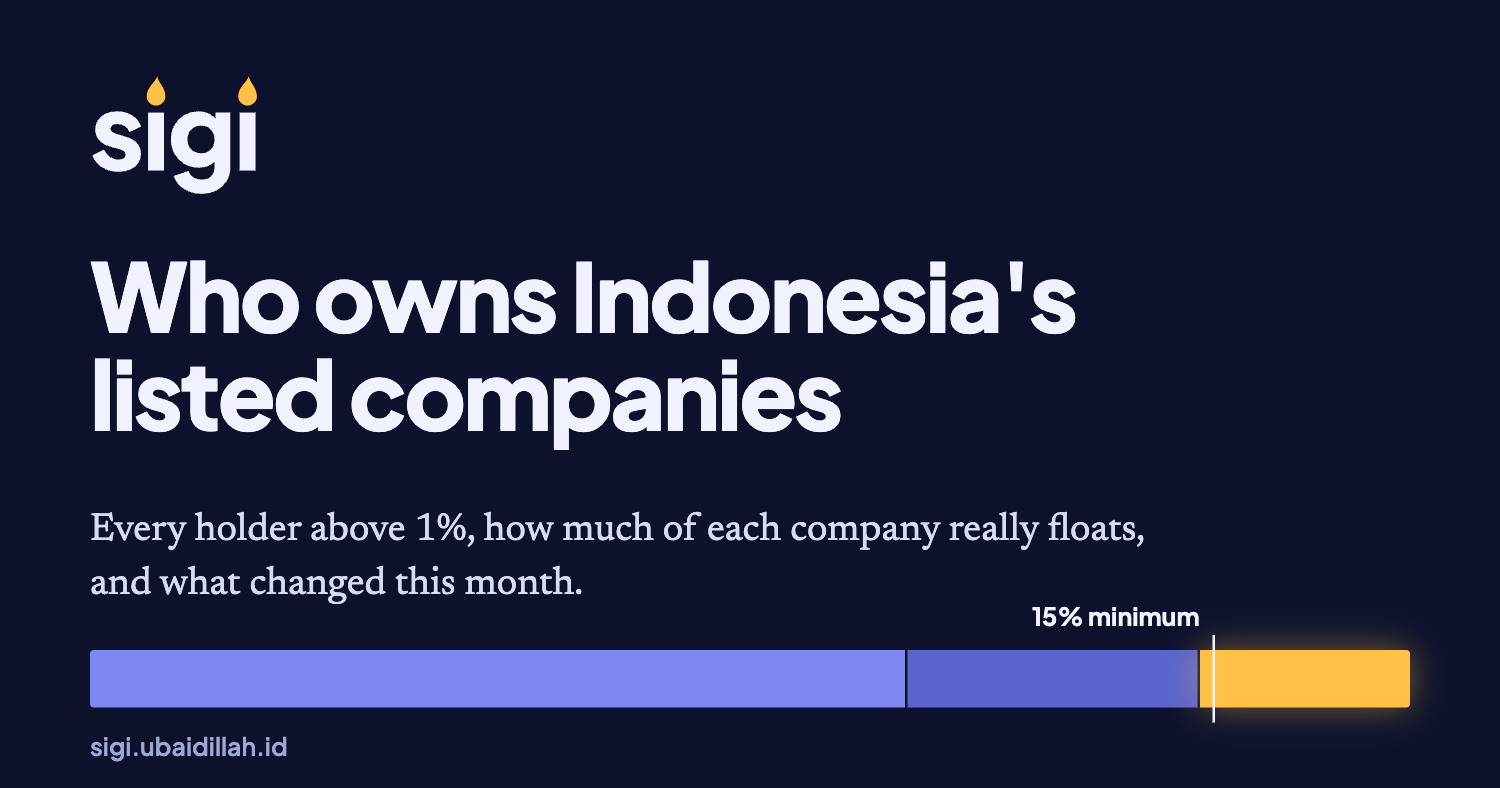
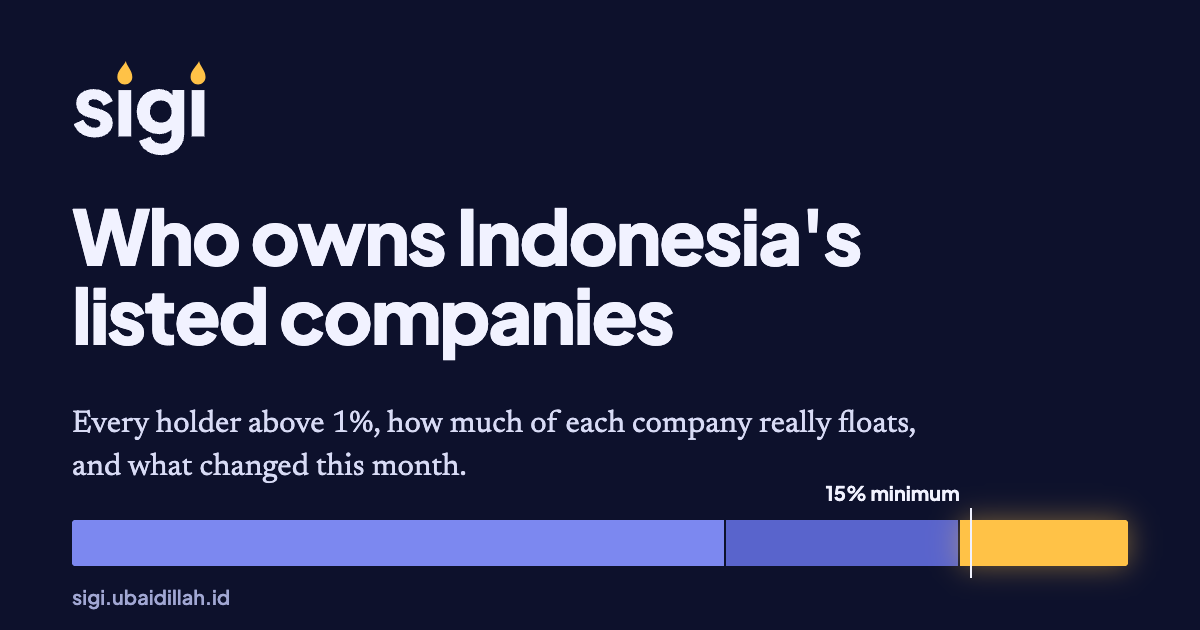
Redesign: identity and one design system under every page (D-027)

diff --git a/e2e/pages.spec.ts b/e2e/pages.spec.ts
@@ -63,7 +63,14 @@ const PAGES: Expected[] = [
   {
     path: "/brief",
     h1: "Daily brief",
-    h2: ["Notable", "Inputs"],
+    h2: [
+      "Worth a closer look",
+      "Changes since yesterday",
+      "Risks to this reading",
+      "Set aside, and why",
+      "Web sources",
+      "Inputs",
+    ],
     current: "Brief",
   },
   {
@@ -78,7 +85,12 @@ const PAGES: Expected[] = [
     ],
     current: "Investability",
   },
-  { path: "/holders", h1: "Holders", h2: [], current: "Holders" },
+  {
+    path: "/holders",
+    h1: "Holders",
+    h2: ["Institutional holders"],
+    current: "Holders",
+  },
   {
     path: `/holders/${HOLDERS.fund.slug}`,
     h1: HOLDERS.fund.name,
@@ -101,19 +113,26 @@ const PAGES: Expected[] = [
   {
     path: "/theses",
     h1: "Theses",
-    h2: ["Conditions hit", "All theses"],
+    h2: ["Conditions hit", "Views held"],
     current: "Theses",
   },
   {
     path: `/theses/${THESES.valid.slug}`,
     h1: THESES.valid.title,
-    h2: ["Summary", "Invalidation conditions", "Thesis", "History"],
+    h2: [
+      "Where it stands",
+      "Invalidation conditions",
+      "Dates",
+      "The thesis",
+      "Version history",
+    ],
     current: "Theses",
   },
   {
     path: `/theses/${THESES.unreadable.slug}`,
     h1: THESES.unreadable.title,
-    h2: ["Summary", "Invalidation conditions", "Thesis", "History"],
+    // Conditions that cannot be read have no readings to summarise.
+    h2: ["Invalidation conditions", "Dates", "The thesis", "Version history"],
     current: "Theses",
   },
   {
@@ -140,7 +159,6 @@ for (const expected of PAGES) {
       expected.h1,
     );
     const sections = await headings(page, 2);
-    // The brief's section heading carries the date; only its badge is stable.
     for (const wanted of expected.h2) {
       expect(sections.some((text) => text.endsWith(wanted))).toBe(true);
     }

diff --git a/e2e/fixture.ts b/e2e/fixture.ts
@@ -58,10 +58,14 @@ export const test = base.extend<Options>({
     );
     page.on("requestfailed", (request) => {
       const reason = request.failure()?.errorText;
-      // Leaving a page cancels the prefetches it started; that is not a failure.
-      const cancelledPrefetch =
-        reason === "net::ERR_ABORTED" && request.url().includes("_rsc=");
-      if (ownOrigin(request.url()) && !cancelledPrefetch)
+      // Leaving a page cancels the prefetches it started, and any stylesheet it
+      // had not finished loading; that is not a failure. A stylesheet that is
+      // missing or broken is an error response, caught below.
+      const cancelled =
+        reason === "net::ERR_ABORTED" &&
+        (request.url().includes("_rsc=") ||
+          /\/_next\/static\/.+\.css(\?|$)/.test(request.url()));
+      if (ownOrigin(request.url()) && !cancelled)
         problems.push(`request failed: ${request.url()} ${reason}`);
     });
     page.on("response", (response) => {

diff --git a/docs/DECISIONS.md b/docs/DECISIONS.md
@@ -227,3 +227,17 @@ Merges also change who has a page. A holder whose spellings appear in the same m
 - **Launch:** the site is public when the `X-Robots-Tag: noindex, nofollow` line is removed from its nginx server block and nginx is reloaded. `robots.txt` (disallows `/lang`) and the sitemap (the section pages, every company in the latest register, every thesis) are already served. The line stays until the owner decides.
 **Consequences:** the Indonesian copy is the author's translation and has had no native-speaker review. A change to English text needs its Indonesian twin in the same commit, and the catalogs test says when it is missing.
 **Evidence:** Playwright (133 specs) and Lighthouse accessibility, 15 pages in both languages, both colour schemes, desktop and mobile: 120 runs, all 100, after darkening the muted and tone colours and underlining links in running text.
+
+## D-027. A new identity and one design system under every page (owner, 2026-10-26)
+**Context:** before launch the owner asked for the UI and UX to be reworked entirely, with an identity (logo, colour). The audit of the old pages, on production data at 1440 px: the market page was 34,683 px tall (all 969 companies in one table), investability 14,007, holders 18,188; every panel was the same white rounded card with a shadow; the face was the system font and the accent a stock blue; the same three-line citation sat under every panel; nothing on a page was larger than anything else.
+**Process (as for Sunrise D-161, `sunrise-ux`):** Anthropic's `frontend-design` skill and the `sunrise-ux` rules, with `ui-ux-pro-max` as a calibration only (its design-system search for this brief returned near-black OLED, a green accent and Fira, which is the default to avoid, so its checklist was kept and its choices were not). The brief is [DESIGN.md](DESIGN.md): subject and audience, the identity, tokens, parts, rules and quality floor. A token plan was reviewed against the common defaults before any code, then built, then critiqued from screenshots at 1440 and 390 px in both schemes and both languages. The foundation (tokens, shell, parts, the market and company pages) was built first; the other eight pages were rebuilt by three agents in separate git worktrees, each with its own build directory and ports, and merged.
+**Decision:**
+- **Identity.** Sigi is a torch (D-009), so the identity is what the torch lights: the part of a company that is open to the public. The wordmark is `sigi` in Plus Jakarta Sans ExtraBold, drawn as outlines, with a flame on each i; the symbol is a torch in white on a nila tile. Two colours: **nila**, the batik indigo, for ink, links and holders; **obor**, the torch amber, the only warm colour, which means *lit*: the free float, the flames, a warning. Plus Jakarta Sans (drawn in Jakarta by Gumpita Rahayu at Tokotype, with tabular figures) carries the interface and every figure; Newsreader sets long reading only. Both are OFL, subset to Latin and self-hosted (22 KB for the sans, 42 KB for the serif and 47 KB for its italic, which loads only where italic is used).
+- **The motif.** Who holds a company is one bar of 100%: holders of 5% or more, then the lit float, with a line at the 15% minimum. In a table row it is 10 px high and a column of them reads like a ruler; on a company page it is the focal figure and its float is lit once when the page opens, the site's only non-user-triggered motion.
+- **Layout language.** A ledger, not cards: flat sections that open on a strong rule with the source or date opposite the title; ruled tables; no shadows; wells only where a thing must stand apart. One focal element per page.
+- **System.** `app/styles/{tokens,base,shell,primitives}.css` and per-page files under `@layer sections`; `app/_components/ui.tsx` (`PageHeader`, `Section`, `Figures`, `Pill`, `Notice`, `SourceNote`, `Icon`) and `OwnershipBar.tsx`. No hex value outside `tokens.css`. Light and dark both follow the system; there is no toggle.
+- **Pages.** Market: search first, the count certainly below the line as the focal figure, today's brief headline, the register with a bar per company, 50 rows a page, filters folded. Company: the verdict, then the bar. Investability: the 25 lowest bounds and a link to the filtered register instead of all 219. Holders: 100 rows with a filter. Macro: tiles with a filled sparkline and the latest value marked; the 8-line citation per card became one folded source. Data: a freshness summary, then feeds, imports and sources as ledgers. Theses: what a thesis is, with a worked example marked as an example, so the empty page at launch explains itself; conditions as a table with a status word and icon. Brief: the headline set large as the focal element. A 404 page with a search, and a masthead search (`/search`) that takes an exact code to its company.
+- **Writing.** Dates are written for reading (`31 Mar 2027`) in the deadline lines; the sans has no italic, so emphasis is weight.
+**Rejected:** a candle-and-stack symbol (reads as a candlestick chart); cream paper with a serif display (a default); a dark-only theme (the owner keeps two); cards for every panel (the old UI); a TradingView-first home page (its widget is blank until a third party answers).
+**Consequences:** the worker's stored sentences still carry ISO dates and stay English (D-026); the Indonesian copy is still the author's translation without native review; the share image and favicon are static files; a change to the shared parts is made in `primitives.css` and `ui.tsx`, never per page. Per-run build directories (`SIGI_DIST_DIR`, `SIGI_E2E_PORT`) let end-to-end runs go in parallel.
+**Evidence:** page height at 1440 px, before and after: market 34,683 to 5,027; investability 14,007 to 4,758; holders 18,188 to 5,639; macro 3,443 to 3,328; company page (ALKA) 3,754 to 4,689, because of the larger type and the bar. No page scrolls sideways at 390 px. Lighthouse accessibility: 120 runs (15 pages, both languages, both schemes, desktop and phone), lowest 100. Contrast was computed for the whole palette in both schemes (text at least 5.5:1, controls at least 3:1). Playwright: 141 specs pass (the 133 of M6 repaired for the new markup, plus company search, the holders filter, the 15% line between bands and the data status); unit tests: 122 pass; `pnpm verify` passes.

diff --git a/docs/ARCHITECTURE.md b/docs/ARCHITECTURE.md
@@ -1,6 +1,6 @@
 # Architecture (proposed)
 
-**Status:** M1 (import pipeline, data health, ownership section, deployment) and M2 (investability tracker, holder explorer, market page) are built; production runs on Dokploy (D-020). Since 2026-10-24 a worker fetches the monthly holder files and the macro series and nothing is uploaded; the admin area is gone (D-021). M3 (macro dashboard) is built (D-023), and so are M4 (theses with conditions the worker checks daily, D-024), M5 (the daily brief, D-025) and M6 (ticker page, English and Indonesian, Playwright and Lighthouse, D-026). The one step left is the public launch, which is the owner's call. Sigi is a fresh repository; modules are copied from Sunrise using the manifest in §7 (D-011). Module paths refer to the Sunrise codebase (public at github.com/Azzamubaidillah/sunrise). Line counts come from a read-only audit on 2026-10-18.
+**Status:** M1 (import pipeline, data health, ownership section, deployment) and M2 (investability tracker, holder explorer, market page) are built; production runs on Dokploy (D-020). Since 2026-10-24 a worker fetches the monthly holder files and the macro series and nothing is uploaded; the admin area is gone (D-021). M3 (macro dashboard) is built (D-023), and so are M4 (theses with conditions the worker checks daily, D-024), M5 (the daily brief, D-025) and M6 (ticker page, English and Indonesian, Playwright and Lighthouse, D-026). Every page was then rebuilt on one design system and a new identity (D-027, docs/DESIGN.md). The one step left is the public launch, which is the owner's call. Sigi is a fresh repository; modules are copied from Sunrise using the manifest in §7 (D-011). Module paths refer to the Sunrise codebase (public at github.com/Azzamubaidillah/sunrise). Line counts come from a read-only audit on 2026-10-18.
 
 ## 1. Shape
 
@@ -109,7 +109,7 @@ That is tens of thousands of rows a year. **SQLite in WAL mode with Drizzle** (a
 
 | Route | Content |
 |---|---|
-| `/` | Market page: IHSG chart and IDX screener (TradingView widgets); the ownership screen with URL filters (built, M2) |
+| `/` | Market page: company search, the count certainly below 15%, today's brief headline, the register with an ownership bar per company, URL filters and 50 rows a page; the IHSG chart and IDX screener (TradingView widgets) below (built, M2; reworked D-027) |
 | `/investability` | Sigi's count against the exchange's, bands of the float bound, companies certainly below 15% with possible deadlines, timeline, methodology (built, M2) |
 | `/t/[code]` | Ticker page: free-float bound and rule status, holders, month-over-month changes, rule and index dates, theses naming the code, then apart and labelled "Data by TradingView" the chart, fundamentals, profile and top stories (built, M2 and M6) |
 | `/holders`, `/holders/[slug]` | Pages for corporate, fund and institution holders only (D-007, D-018; built, M2) |
@@ -119,7 +119,11 @@ That is tens of thousands of rows a year. **SQLite in WAL mode with Drizzle** (a
 | `/brief` | Today's brief, stale marker, rejected-file notice, inputs table (built, M5; F12) |
 | `/data` | Data health: the worker's checks, imports, gate results with warnings, sources and licences |
 | `/lang` | Sets the language cookie and redirects back (GET only; built, M6, D-026) |
-| `/robots.txt`, `/sitemap.xml` | Crawler rules and the page list (built, M6) |
+| `/search` | The masthead's company search: an exact share code goes to `/t/<code>`, anything else to the market page's name search (GET only; built, D-027) |
+| `/robots.txt`, `/sitemap.xml` | Crawler rules (off `/lang` and `/search`) and the page list (built, M6) |
+| `/icon.svg`, `/apple-icon.png`, `/opengraph-image.png` | The torch symbol and the share image, as Next file conventions in `app/` (built, D-027) |
+
+**Styles and parts (D-027).** `app/styles/{tokens,base,shell,primitives}.css` are the shared layers, loaded by `app/layout.tsx`; each page that needs its own rules has `app/styles/<page>.css` under `@layer sections`, imported by the page. The shared markup is `app/_components/ui.tsx` and `OwnershipBar.tsx`. Fonts (Plus Jakarta Sans, Newsreader; OFL) are subset to Latin and served from `app/fonts/`. docs/DESIGN.md is the brief.
 
 ## 6. Testing
 

diff --git a/README.md b/README.md
@@ -1,4 +1,9 @@
-# Sigi
+<h1>
+  <picture>
+    <source media="(prefers-color-scheme: dark)" srcset="docs/brand/wordmark-dark.svg">
+    <img src="docs/brand/wordmark-light.svg" alt="Sigi" height="56">
+  </picture>
+</h1>
 
 A research site for Indonesian listed companies. It covers who owns each company and what changed this month, how much of it really floats against the new 15% rule, how macro conditions move each sector, investment theses with explicit invalidation conditions, and a daily AI brief that cites its evidence. It uses only free data, and every figure shows its source.
 
@@ -12,10 +17,12 @@ A research site for Indonesian listed companies. It covers who owns each company
 - **M3** (deployed 2026-10-24): the macro dashboard (F6) at `/macro`, fed daily from Bank Indonesia, the World Bank Pink Sheet and FRED (D-023).
 - **M4** (deployed 2026-10-25): theses (F7) at `/theses`, files in `theses/` with typed invalidation conditions that the worker checks daily (D-024).
 - **M5** (deployed 2026-10-25): the daily brief (F12) at `/brief`: an agent reads Sigi's own readings each morning and writes one file that the page validates before showing (D-025).
-- **M6** (deployed 2026-10-25): the company page with its dates and TradingView sections (F8), English and Indonesian on every page (F11, D-026), Playwright and Lighthouse checks in CI. The site is public but asks search engines not to index it: the launch is removing the `X-Robots-Tag: noindex, nofollow` line from the site's nginx server block and reloading nginx.
+- **M6** (deployed 2026-10-25): the company page with its dates and TradingView sections (F8), English and Indonesian on every page (F11, D-026), Playwright and Lighthouse checks in CI.
+- **Redesign** (2026-10-26, D-027): a new identity (the `sigi` wordmark with a flame on each i, the torch, nila indigo and obor amber, Plus Jakarta Sans and Newsreader) and one design system under every page; the register carries an ownership bar per company, with the free float lit and the 15% minimum marked. The site is public but asks search engines not to index it: the launch is removing the `X-Robots-Tag: noindex, nofollow` line from the site's nginx server block and reloading nginx.
 
 | Doc | Purpose |
 |---|---|
+| [docs/DESIGN.md](docs/DESIGN.md) | The identity (wordmark, nila and obor, the lit ownership bar), tokens, shared parts and the rules for using them |
 | [docs/PRD.md](docs/PRD.md) | What we build, for whom, under which constraints; features with acceptance criteria; phases; risks |
 | [docs/DATA-SOURCES.md](docs/DATA-SOURCES.md) | Register of every data source: terms, quotes, status, attribution, known issues |
 | [docs/DECISIONS.md](docs/DECISIONS.md) | Decisions and their consequences |

diff --git a/docs/PRD.md b/docs/PRD.md
@@ -1,6 +1,6 @@
 # Sigi: Product Requirements
 
-**Version:** 0.9, 2026-10-25. **Status:** P1 started 2026-10-22; M1 to M6 built and deployed; the public launch (search engines allowed) waits for the owner, and §10's three theses are not yet written (§11, D-021, D-023 to D-026). **Owner:** Azzam Ubaidillah.
+**Version:** 0.10, 2026-10-26. **Status:** P1 started 2026-10-22; M1 to M6 built and deployed; the public launch (search engines allowed) waits for the owner, and §10's three theses are not yet written (§11, D-021, D-023 to D-027); every page was rebuilt on a new identity and one design system before launch (D-027, [DESIGN.md](DESIGN.md)). **Owner:** Azzam Ubaidillah.
 **Name:** Sigi. In the KBBI, *sigi* is a torch, and *menyigi* means "to light up" and, figuratively, "to investigate carefully" (D-009). **Hosting:** a subdomain of the owner's site (D-014).
 **Companion docs:** [DATA-SOURCES.md](DATA-SOURCES.md) (what data we may use and under which terms), [DECISIONS.md](DECISIONS.md), [ARCHITECTURE.md](ARCHITECTURE.md).
 **Confidence labels:** [H] read on a primary source, [M] secondary source or partial read, [L] inference. Claims about third-party terms are not legal advice.
